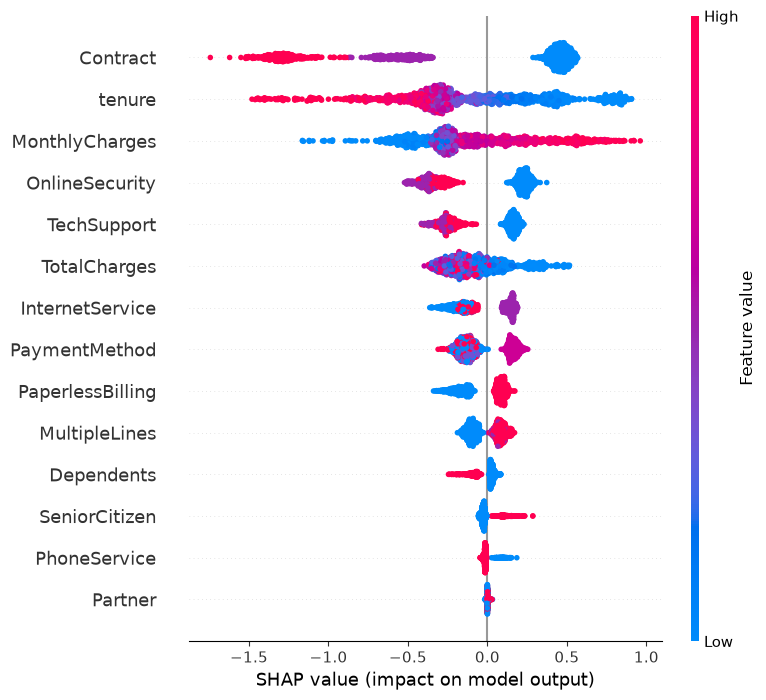
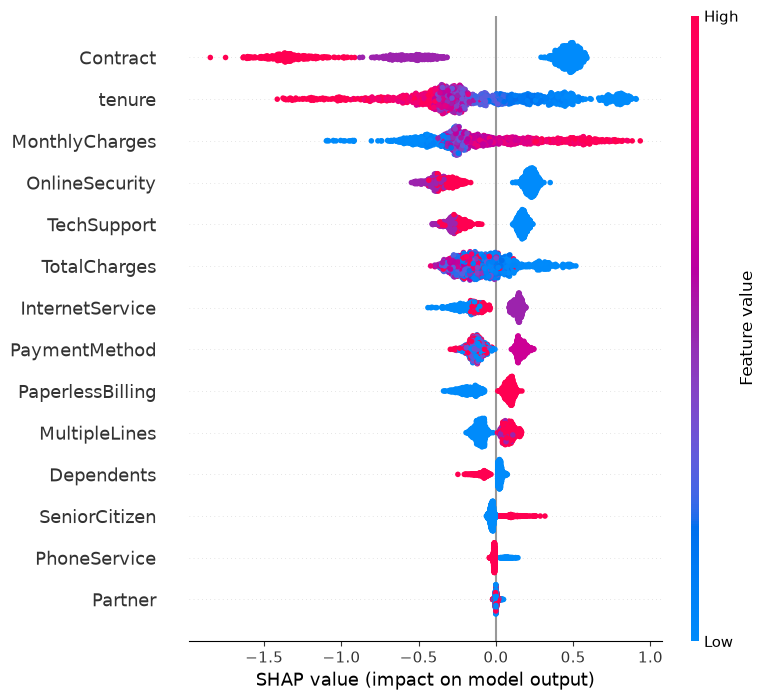
Fix MLflow volume mount, stage-lookup bug, and update training metrics

diff --git a/src/serving/model_loader.py b/src/serving/model_loader.py
@@ -1,10 +1,3 @@
-"""Load the current Production-stage model from the MLflow registry.
-
-Falls back to the Staging version if Production is unavailable or fails
-a basic sanity check, and falls back to a local pickle (models/churn_model.pkl)
-if MLflow itself is unreachable — so `uvicorn src.serving.app:app` still
-boots for local dev without the full Docker Compose stack running.
-"""
 import os
 import pickle
 
@@ -16,10 +9,14 @@ LOCAL_FALLBACK_PATH = "models/churn_model.pkl"
 def _load_stage(client, stage: str):
     import mlflow
 
-    versions = client.get_latest_versions(MODEL_NAME, stages=[stage])
-    if not versions:
+    # NOTE: get_latest_versions(stages=[...]) is deprecated and unreliable
+    # against this MLflow server version — it can return empty even when
+    # search_model_versions confirms a version is in that exact stage.
+    all_versions = client.search_model_versions(f"name='{MODEL_NAME}'")
+    matching = [v for v in all_versions if v.current_stage == stage]
+    if not matching:
         return None, None
-    version = versions[0]
+    version = max(matching, key=lambda v: int(v.version))
     model_uri = f"models:/{MODEL_NAME}/{stage}"
     model = mlflow.xgboost.load_model(model_uri)
     info = {"version": version.version, "run_id": version.run_id, "stage": stage}